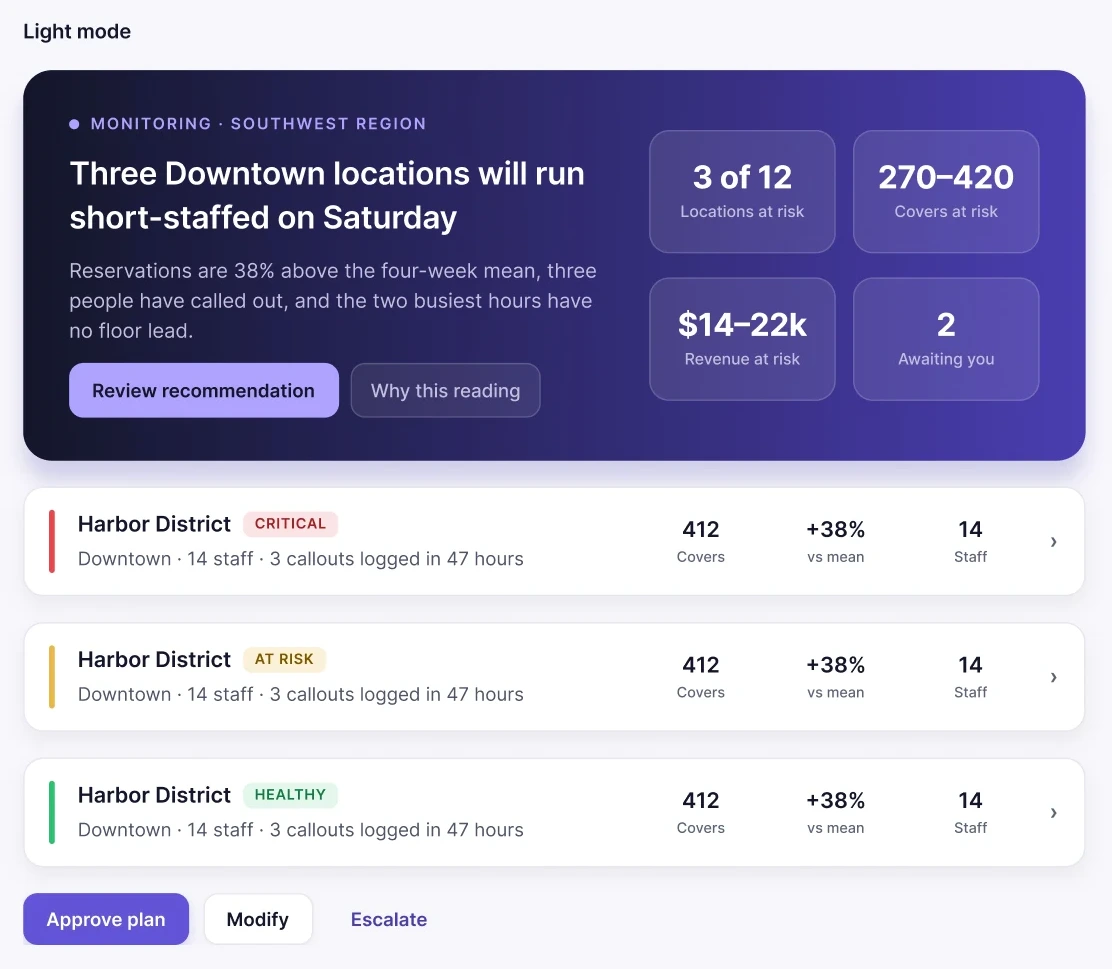
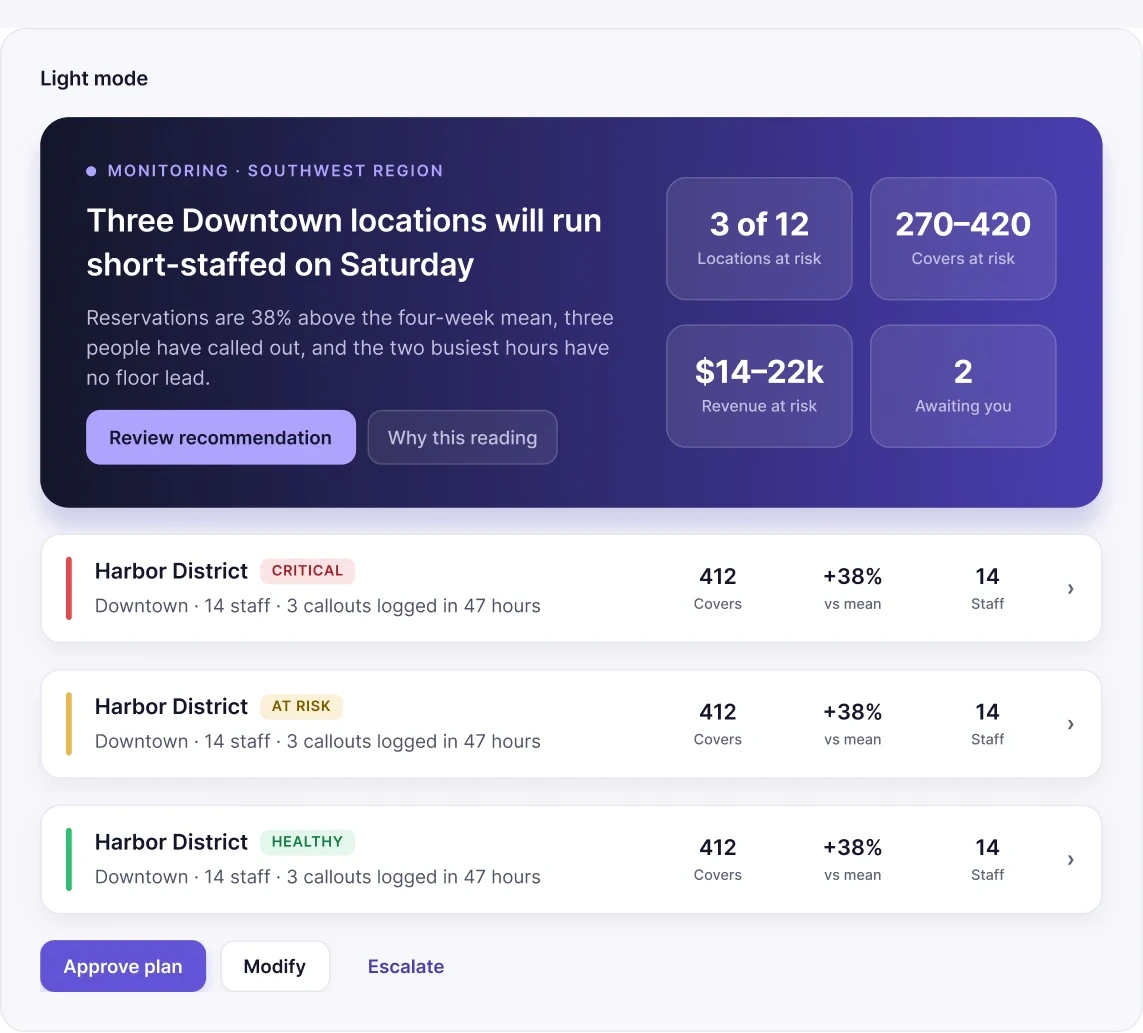
Match Meridian shot framing to Typeshelf.
Extend each still with column-aware top pad so the shared .shot radius clips breathing room instead of the logo, the same way Typeshelf screenshots carry margin above the brand.

diff --git a/app/meridian/page.tsx b/app/meridian/page.tsx
@@ -39,7 +39,7 @@ export default function Meridian() {
 
     <figure>
       <div className="shot">
-        <img src="/assets/meridian-hero.webp" alt="Meridian Control Tower overview screen" width="1160" height="844" loading="eager" />
+        <img src="/assets/meridian-hero.webp" alt="Meridian Control Tower overview screen" width="1160" height="839" loading="eager" />
       </div>
     </figure>
   </header>
@@ -191,7 +191,7 @@ export default function Meridian() {
     Covers at risk, revenue at risk.</p>
     <figure>
       <div className="shot">
-        <img src="/assets/meridian-control-tower.webp" alt="Control Tower: regional overview with priority incidents and approvals queue" width="1137" height="820" loading="lazy" />
+        <img src="/assets/meridian-control-tower.webp" alt="Control Tower: regional overview with priority incidents and approvals queue" width="1137" height="822" loading="lazy" />
       </div>
     </figure>
     <div className="notes">
@@ -212,7 +212,7 @@ export default function Meridian() {
     you to act until the situation's been explained in words you could repeat to your own boss.</p>
     <figure>
       <div className="shot">
-        <img src="/assets/meridian-incident.webp" alt="Incident Workspace: plain-language summary, contributing signals, evidence and recommended response" width="1137" height="1271" loading="lazy" />
+        <img src="/assets/meridian-incident.webp" alt="Incident Workspace: plain-language summary, contributing signals, evidence and recommended response" width="1137" height="1270" loading="lazy" />
       </div>
     </figure>
     <div className="notes">
@@ -255,7 +255,7 @@ export default function Meridian() {
     accept them.</p>
     <figure>
       <div className="shot">
-        <img src="/assets/meridian-outcome.webp" alt="Outcome and Learning: predicted vs actual, decision record, and proposed model changes" width="1137" height="966" loading="lazy" />
+        <img src="/assets/meridian-outcome.webp" alt="Outcome and Learning: predicted vs actual, decision record, and proposed model changes" width="1137" height="967" loading="lazy" />
       </div>
     </figure>
 
@@ -295,7 +295,7 @@ export default function Meridian() {
       threshold so you're not left wondering whether it's broken.</p>
       <figure>
         <div className="shot narrow">
-          <img src="/assets/meridian-edge-allclear.webp" alt="All-clear zero state" width="647" height="411" loading="lazy" />
+          <img src="/assets/meridian-edge-allclear.webp" alt="All-clear zero state" width="647" height="406" loading="lazy" />
         </div>
       </figure>
     </div>
@@ -306,7 +306,7 @@ export default function Meridian() {
       lists the three things that would change its mind, and offers to hand it to a person.</p>
       <figure>
         <div className="shot narrow">
-          <img src="/assets/meridian-edge-lowconfidence.webp" alt="Low-confidence state where Meridian declines to recommend" width="647" height="411" loading="lazy" />
+          <img src="/assets/meridian-edge-lowconfidence.webp" alt="Low-confidence state where Meridian declines to recommend" width="647" height="406" loading="lazy" />
         </div>
         <figcaption>Revenue at risk reads <b>Withheld · Not modeled</b>. A range this wide would just be
         a guess.</figcaption>
@@ -320,7 +320,7 @@ export default function Meridian() {
       second re-check.</p>
       <figure>
         <div className="shot narrow">
-          <img src="/assets/meridian-edge-rejected.webp" alt="Rejected approval state with recorded rationale" width="647" height="411" loading="lazy" />
+          <img src="/assets/meridian-edge-rejected.webp" alt="Rejected approval state with recorded rationale" width="647" height="406" loading="lazy" />
         </div>
       </figure>
     </div>
@@ -388,10 +388,10 @@ export default function Meridian() {
     <figure>
       <div className="theme-pair">
         <div className="shot">
-          <img src="/assets/meridian-theme-light.webp" alt="Meridian components in light mode" width="1112" height="969" loading="lazy" />
+          <img src="/assets/meridian-theme-light.webp" alt="Meridian components in light mode" width="1143" height="1033" loading="lazy" />
         </div>
         <div className="shot">
-          <img src="/assets/meridian-theme-dark.webp" alt="The same components in dark mode" width="1143" height="1005" loading="lazy" />
+          <img src="/assets/meridian-theme-dark.webp" alt="The same components in dark mode" width="1143" height="1033" loading="lazy" />
         </div>
       </div>
       <figcaption>The same components in both modes. Verified: 0 WCAG AA failures on every text

diff --git a/app/globals.css b/app/globals.css
@@ -152,8 +152,8 @@
 
   .shot{position:relative;width:100%;max-width:1160px;margin-inline:auto;
     border-radius:var(--r-card);overflow:hidden;box-shadow:var(--shadow)}
-  /* Frame is CSS. Assets keep 16–24px of canvas above the chrome so the radius
-     clips padding, not the logo. */
+  /* Same frame as Typeshelf: radius + shadow. Assets carry ~28px of chrome
+     padding above the logo so the radius clips pad, not the brand. */
   .theme-pair{display:grid;grid-template-columns:1fr 1fr;gap:clamp(14px,2vw,26px);
     margin-top:38px;align-items:start}
   .theme-pair .shot{max-width:none;margin-inline:0}
